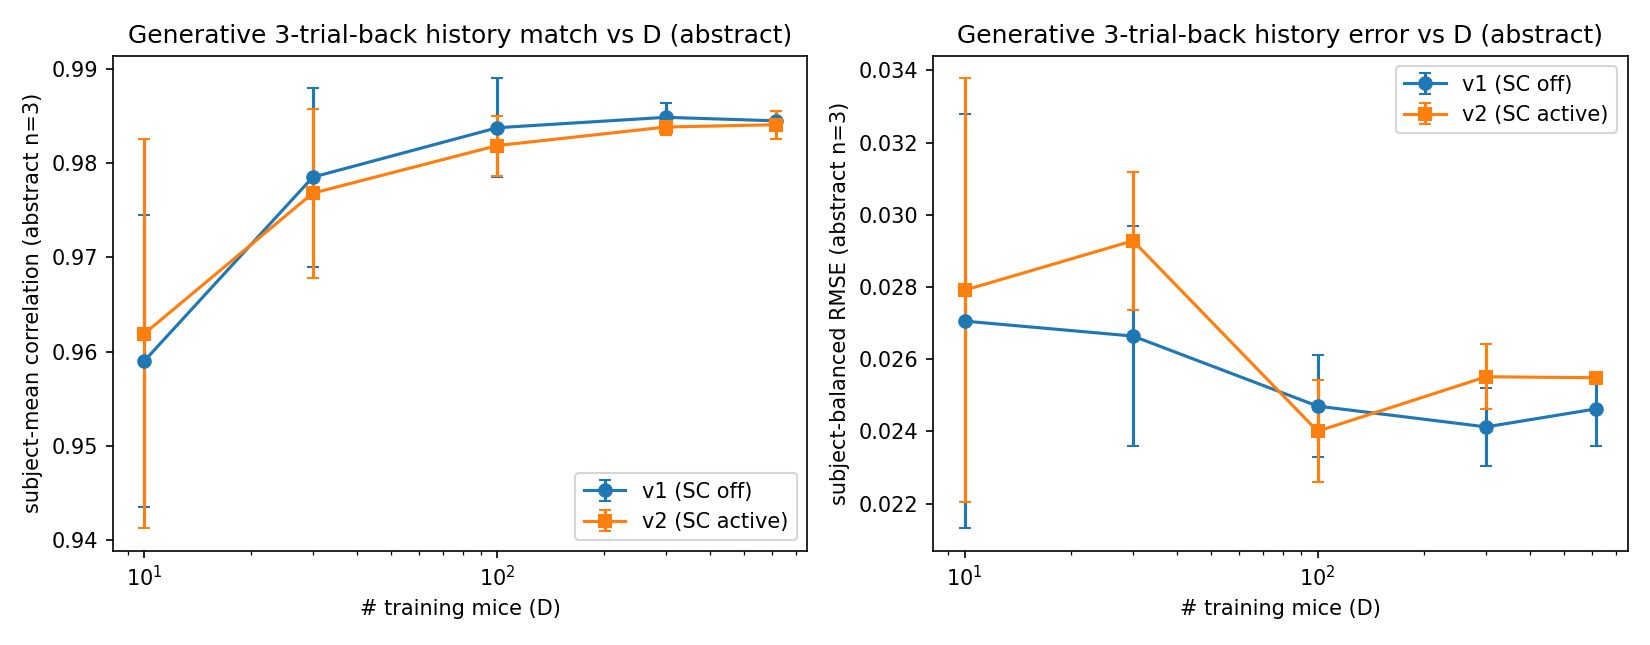
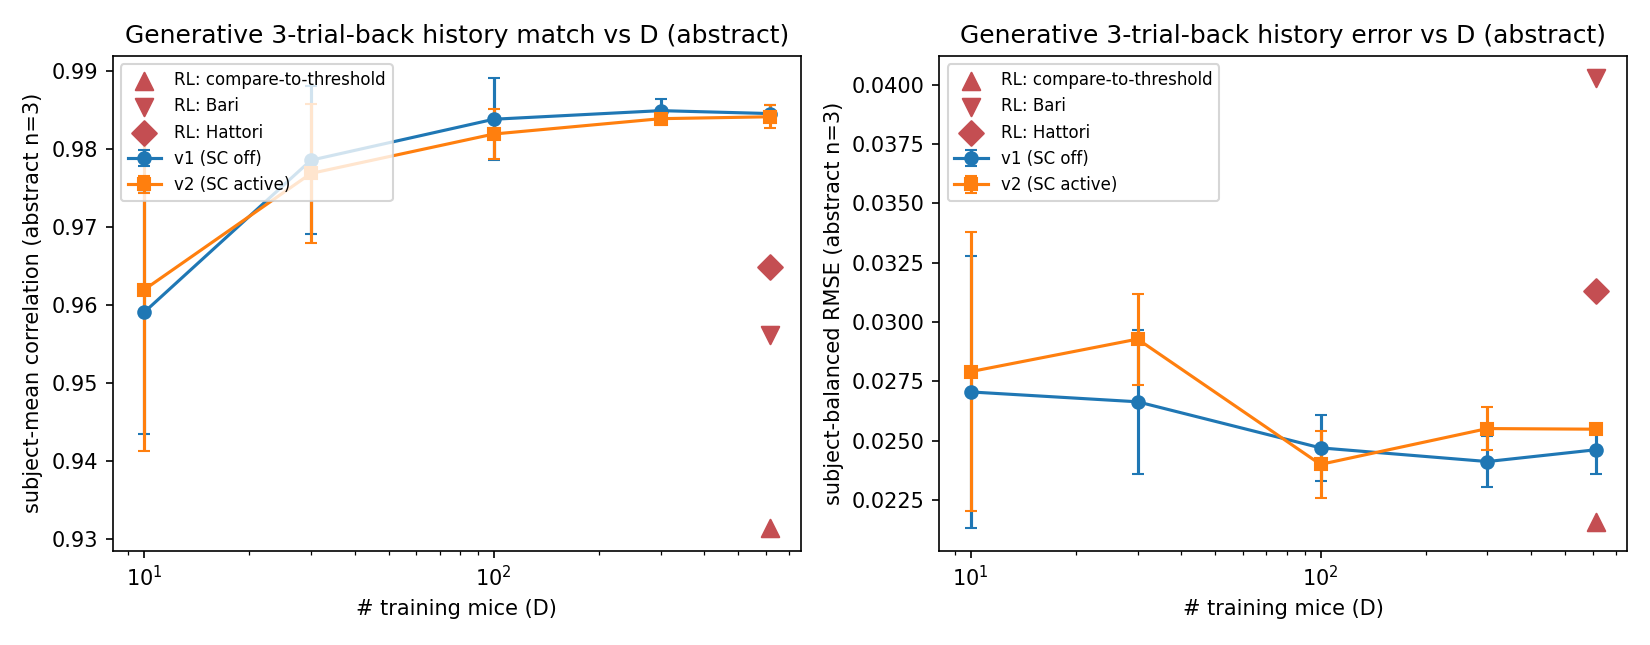
analysis(01): r9 -- add the RL generative baselines from study 05
Study 05's r4 crossed the same three per-mouse RL baselines (compare-to-
threshold, Bari, Hattori -- r1's fits) against the disRNN generatively. r9 is
the natural place for the GRU-vs-RL half of that comparison, since it already
runs the identical task-construction code path -- so add it here too rather
than let the RL rollout only ever be compared against one of the two models.

Reads study 05's committed rl_rollout_summaries/ (cross-study reference, same
direction r1/r4 already read study 01's generative_match.json the other way).
Single reference point per RL model at D=614 (per-subject fit over all 614
mice, not a D-sweep) on both figures, plus three new result tables (d)-(f)
mirroring this report's existing switch/abstract/detailed structure.

Same nuanced finding as r4: no RL model is uniformly more mouse-like than the
GRU, and the internal RL ranking flips across metrics -- Hattori edges out both
GRU variants on the switch curve (0.9884 vs 0.980) but trails on history
(0.965 vs 0.984); compare-to-threshold is competitive on switch (0.977) but is
the WORST model in every table on 3-trial-back history (0.931, both encodings
agree) -- below even the GRU's own D=10 point. Bari trails on every metric and
carries ~2x everyone else's switch RMSE despite mid-table correlation.

Flagged explicitly: this report's OWN GRU rollouts predate wrapper #60 (the
off-curriculum task-family fix), while the RL rollouts run after it -- an
[…]

diff --git a/studies/01-gru-scaling-law/analysis/generative_match.py b/studies/01-gru-scaling-law/analysis/generative_match.py
@@ -36,6 +36,16 @@ PROJECT = "AIND-disRNN/mice_data_scaling"
 PREFIXES = ("generative-v1@", "generative-v2@")
 DLAB = {0.016: 10, 0.049: 30, 0.163: 100, 0.489: 300, 1.0: 614}
 
+# RL baselines: rolled out generatively under study 05 (variants/generative-rl-baseline), same
+# task construction as this study's own GRU rollouts (build_curriculum_matched_task). Read
+# cross-study rather than duplicated -- that variant's notes.md has the full methodology/
+# provenance. Single point each at D=614 (per-subject fits over all 614 mice), NOT a D-sweep.
+RL_JSON_DIR = (
+    HERE.parent.parent / "05-disrnn-scaling-law" / "variants" / "generative-rl-baseline"
+    / "rl_rollout_summaries"
+)
+RL_LABELS = {"ctt": "compare-to-threshold", "bari": "Bari", "hattori": "Hattori"}
+
 # (1) switch-triggered: run-length-resolved switch curve (the corr~0.96 headline).
 STAT = "post_switch_by_reward_and_run_length"
 K_CORR = switch_corr(STAT)
@@ -98,9 +108,43 @@ def collect():
     return rows, groups
 
 
+def rl_reference():
+    """RL baselines' generative match at D=614 (study 05's rollout, same task construction).
+
+    quantitative_summary.json per alias has the SAME nested structure the wrapper logs to W&B
+    (see wandb_keys.py) -- just not flattened into dotted keys, since these standalone rollouts
+    were never logged to a W&B run.
+    """
+    out = {}
+    for alias, label in RL_LABELS.items():
+        path = RL_JSON_DIR / f"{alias}_quantitative_summary.json"
+        if not path.exists():
+            continue
+        d = json.loads(path.read_text())
+        sw = d["switch_triggered"]["quantitative_summary"]["subject_mean"][STAT]
+        sw_mse = d["switch_triggered"]["delta_significance_summary"][STAT][
+            "subject_balanced_error_summary"
+        ]["mean_squared_error"]
+        hp, hn = HIST_HEADLINE
+        hist = d["history_dependent"]["quantitative_summary"]["subject_mean"][hp][str(hn)]
+        hist_mse = d["history_dependent"]["delta_significance_summary"][hp][str(hn)][
+            "subject_balanced_error_summary"
+        ]["mean_squared_error"]
+        out[alias] = dict(
+            label=label,
+            D=614,
+            corr=float(sw["correlation"]),
+            rmse=math.sqrt(float(sw_mse)),
+            hist_corr=float(hist["correlation"]),
+            hist_rmse=math.sqrt(float(hist_mse)),
+        )
+    return out
+
+
 def main():
     rows, groups = collect()
     print(f"collected {len(rows)} generative cells")
+    rl = rl_reference()
     # (1) switch-triggered: aggregate over seeds per (variant, D).
     agg = defaultdict(lambda: defaultdict(list))
     for r in rows:
@@ -131,7 +175,7 @@ def main():
                 )
 
     json.dump({"_meta": build_meta("analysis/generative_match.py", groups),
-               **out, "history_dependent": hist_out},
+               **out, "history_dependent": hist_out, "rl_reference": rl},
               open(HERE / "generative_match.json", "w"), indent=2)
 
     # --- figure 1: switch-triggered match vs D (unchanged) ---------------------
@@ -146,8 +190,15 @@ def main():
         lab = "v1 (SC off)" if var == "v1" else "v2 (SC active)"
         axc.errorbar(xs, cm, yerr=cs, fmt=mk, capsize=3, label=lab)
         axr.errorbar(xs, rm, yerr=rs, fmt=mk, capsize=3, label=lab)
+    rl_markers = {"ctt": "^", "bari": "v", "hattori": "D"}
+    for alias, v in rl.items():
+        axc.scatter([v["D"]], [v["corr"]], marker=rl_markers.get(alias, "x"), s=70,
+                    color="#c44e52", zorder=5, label=f"RL: {v['label']}")
+        axr.scatter([v["D"]], [v["rmse"]], marker=rl_markers.get(alias, "x"), s=70,
+                    color="#c44e52", zorder=5, label=f"RL: {v['label']}")
     for ax in (axc, axr):
-        ax.set_xscale("log"); ax.set_xlabel("# training mice (D)"); ax.legend()
+        # upper-left is the corner every series (GRU v1/v2, RL) leaves clear at every D.
+        ax.set_xscale("log"); ax.set_xlabel("# training mice (D)"); ax.legend(loc="upper left", fontsize=8)
     axc.set_ylabel("subject-mean correlation (model vs animal)")
     axc.set_title("Generative switch-curve match vs D")
     axr.set_ylabel("subject-balanced RMSE")
@@ -168,8 +219,13 @@ def main():
         lab = "v1 (SC off)" if var == "v1" else "v2 (SC active)"
         axc.errorbar(xs, cm, yerr=cs, fmt=mk, capsize=3, label=lab)
         axr.errorbar(xs, rm, yerr=rs, fmt=mk, capsize=3, label=lab)
+    for alias, v in rl.items():
+        axc.scatter([v["D"]], [v["hist_corr"]], marker=rl_markers.get(alias, "x"), s=70,
+                    color="#c44e52", zorder=5, label=f"RL: {v['label']}")
+        axr.scatter([v["D"]], [v["hist_rmse"]], marker=rl_markers.get(alias, "x"), s=70,
+                    color="#c44e52", zorder=5, label=f"RL: {v['label']}")
     for ax in (axc, axr):
-        ax.set_xscale("log"); ax.set_xlabel("# training mice (D)"); ax.legend()
+        ax.set_xscale("log"); ax.set_xlabel("# training mice (D)"); ax.legend(loc="upper left", fontsize=8)
     axc.set_ylabel(f"subject-mean correlation ({hp} n={hn})")
     axc.set_title(f"Generative 3-trial-back history match vs D ({hp})")
     axr.set_ylabel(f"subject-balanced RMSE ({hp} n={hn})")
@@ -192,6 +248,12 @@ def main():
             for cell in sorted(section, key=lambda c: (c[:2], section[c]["D"])):
                 v = section[cell]
                 print(f"{cell:>9} {v['n_seeds']:>2} {v['corr_mean']:>8.4f} {v['rmse_mean']:>8.4f}")
+
+    if rl:
+        print(f"\n=== RL baselines at D=614 (switch corr/rmse, {hp} n={hn} history corr/rmse) ===")
+        for alias, v in rl.items():
+            print(f"{v['label']:>22}  switch {v['corr']:.4f}/{v['rmse']:.4f}   "
+                  f"history {v['hist_corr']:.4f}/{v['hist_rmse']:.4f}")
 
 
 if __name__ == "__main__":

diff --git a/studies/01-gru-scaling-law/analysis/reports/r9-generative-behavioral-match.md b/studies/01-gru-scaling-law/analysis/reports/r9-generative-behavioral-match.md
@@ -13,12 +13,15 @@ inputs:
   related_outputs:
     - analysis/fig_generative_match_history.png
     - analysis/generative_match_verdict.md
-reproduce: python studies/data-scaling-law/analysis/generative_match.py
+  rl_reference: ../05-disrnn-scaling-law/variants/generative-rl-baseline/rl_rollout_summaries/{ctt,bari,hattori}_quantitative_summary.json
+reproduce: python studies/01-gru-scaling-law/analysis/generative_match.py
 ---
 
 # Result 9 — generative model-vs-animal behavioral match vs D (2nd-order validation)
 
 Roll each trained GRU out as a generative agent on the curriculum task and compare two model-vs-animal behavioral curves to the real mouse. Headline = subject-mean Pearson correlation; companion = subject-balanced RMSE (√ of MSE over per-subject mean deltas). Both on the **combined** session partition. 30 runs = 5 D × 3 seeds × {v1 SC off, v2 SC active}. Source W&B groups `generative-v{1,2}@20260623-18074*`. Wrapper 916d3b4.
+
+**Added 2026-07-15:** three per-mouse classical RL baselines (compare-to-threshold, Bari, Hattori — the same fits behind study 05's r1 likelihood numbers), rolled out generatively under study 05's [`generative-rl-baseline`](../../../05-disrnn-scaling-law/variants/generative-rl-baseline/notes.md) variant through the identical task-construction code path, and plotted here as single reference points at D=614 (a per-subject fit over all 614 mice, not a D-sweep). See the ⚠ caveat below on wrapper-version asymmetry before reading the absolute RL numbers.
 
 ## Figures
 
@@ -41,7 +44,9 @@ For every (variant, D) cell the correlation and RMSE below are means of the 3-se
 ## Results
 
 <!-- BEGIN result-9 -->
-[regenerated by `analysis/generative_match.py` — do not edit by hand]
+[all numbers below are read verbatim off `analysis/generative_match.py`'s console output /
+`generative_match.json` — this script does not write the tables into the report automatically,
+so update them by hand when re-running produces new numbers]
 
 **(a) Switch-triggered curve — `post_switch_by_reward_and_run_length` (4 bins; subject-mean correlation):**
 
@@ -86,6 +91,34 @@ For every (variant, D) cell the correlation and RMSE below are means of the 3-se
 | v2 614 | 0.9990 | 0.9957 | 0.9872 | 0.0210 | 0.0226 | 0.0237 |
 
 **D=10 → D=614 correlation gain (v1, headline metrics):** 4-bin switch curve +0.021; abstract n=3 (32 bins) +0.026; detailed n=1 (4 bins, WSLS-equivalent) +0.042; **detailed n=3 (64 bins) +0.051**. Fine-grained history metrics surface a ~2× larger D-scaling signal than the coarse 4-bin curve, while still saturating by D≈100.
+
+**(d) RL baselines at D=614 — switch-triggered curve** (per-subject fits from study 05's r1, rolled out through the same task construction; not a D-sweep — one row per model, fit on all 614 mice):
+
+| model | switch corr | switch RMSE |
+|---|---|---|
+| GRU v1 (D=614, for reference) | 0.9789 | 0.0362 |
+| GRU v2 (D=614, for reference) | 0.9802 | 0.0379 |
+| Hattori | **0.9884** | 0.0452 |
+| compare-to-threshold | 0.9770 | 0.0369 |
+| Bari | 0.9425 | 0.0831 |
+
+**(e) RL baselines at D=614 — history-pattern curve, abstract encoding:**
+
+| model | n=1 corr | n=2 corr | n=3 corr | n=1 RMSE | n=2 RMSE | n=3 RMSE |
+|---|---|---|---|---|---|---|
+| Hattori | 1.0000ⁿ | 0.9944 | 0.9648 | 0.0153 | 0.0235 | 0.0313 |
+| compare-to-threshold | 1.0000ⁿ | 0.9939 | **0.9313** | 0.0156 | 0.0237 | 0.0216 |
+| Bari | 1.0000ⁿ | 0.9836 | 0.9561 | 0.0201 | 0.0363 | 0.0403 |
+
+**(f) RL baselines at D=614 — history-pattern curve, detailed encoding:**
+
+| model | n=1 corr | n=2 corr | n=3 corr | n=1 RMSE | n=2 RMSE | n=3 RMSE |
+|---|---|---|---|---|---|---|
+| Hattori | 0.9987 | 0.9937 | 0.9656 | 0.0163 | 0.0241 | 0.0301 |
+| compare-to-threshold | 0.9945 | 0.9924 | **0.9321** | 0.0167 | 0.0247 | 0.0207 |
+| Bari | 0.9991 | 0.9855 | 0.9619 | 0.0208 | 0.0359 | 0.0369 |
+
+**No RL model is uniformly more mouse-like than the GRU, and their internal ranking flips across metrics.** Hattori edges out both GRU variants on the switch curve (0.9884 vs 0.980) but trails on history (n=3: 0.965 vs 0.984). compare-to-threshold is competitive with the GRU on switch (0.977) but is the **worst model in every table above** on 3-trial-back history — abstract and detailed agree (0.9313 / 0.9321), both well below even the GRU's D=10 point (0.959–0.962). Bari trails the GRU on every metric and carries ~2× everyone else's RMSE on the switch curve (0.083) despite a mid-table correlation — its curve *shape* tracks the animal, its absolute *level* does not. Full discussion (finding 4): study 05's [r4](../../../05-disrnn-scaling-law/analysis/reports/r4-generative-behavioral-match.md) (same rollouts, disRNN comparison).
 <!-- END result-9 -->
 
 ## Findings
@@ -117,11 +150,23 @@ What does **not** exist anywhere in the wrapper: no win-stay-lose-shift (`wsls`)
 - **"Switch" in `switch_triggered` is a choice flip, not a block reversal.** Block info is stripped from the snapshot before this analysis (`generative_analysis.py:418-426`). Naming follows the wrapper.
 - **abstract n=1 correlation is degenerate** (2 bins → r=±1). Use abstract-n=1 RMSE for D-scaling at that resolution, or use `detailed n=1` (4 bins) for an informative Pearson r.
 - **Subject-mean aggregation discards within-subject variance.** Pooled / session_mean leaves are available in the JSON if a different aggregation is desired.
+- ⚠ **The RL reference rows (d)-(f) run on a NEWER wrapper than this report's own GRU rollouts.**
+  This report's GRU rollouts predate wrapper
+  [#60](https://github.com/AllenNeuralDynamics/aind-disrnn-wrapper/pull/60): off-curriculum
+  sessions were silently simulated as a default *uncoupled-baiting* task regardless of the family
+  the mouse actually ran (~17% of sessions in the D=10 cohort; the affected fraction at other D is
+  untested here). The RL rollouts added below run **after** #60 and do not carry this bug. That
+  makes the GRU-vs-RL comparison in (d)-(f) asymmetric — an unknown amount of the GRU's numbers
+  reflect wrong-task rollouts that the RL numbers don't. It does **not** affect the RL-vs-disRNN
+  comparison in study 05's r4, which runs both models on the same post-#60 code. Re-running this
+  report's own GRU rollouts on the fixed wrapper is tracked (see r4) but not yet done.
 
 ## Related
 
 - [[r1-heldout-scaling-curve]] — 1st-order (next-trial LL) D-scaling that this 2nd-order check corroborates.
 - [[r7-nxd-joint-scaling-grid]] — `nxd_scaling_verdict.md:53` and `nxd_scaling.py:406` already cite "generative behavioral-match (corr~0.96+) corroborates the near-ceiling claim from a 2nd metric".
 - `generative_match_verdict.md` — pre-promotion verdict notes (switch-triggered only).
-- `studies/data-scaling-law/FUTURE_DIRECTIONS.md` §5 — original motivation for this 2nd-order check, and the stage-matching caveat above.
-- `studies/data-scaling-law/launch_generative.py` — launcher that produced the `generative-v{1,2}@*` W&B groups.
+- `studies/01-gru-scaling-law/FUTURE_DIRECTIONS.md` §5 — original motivation for this 2nd-order check, and the stage-matching caveat above.
+- `studies/01-gru-scaling-law/launch_generative.py` — launcher that produced the `generative-v{1,2}@*` W&B groups.
+- [study 05 r4](../../../05-disrnn-scaling-law/analysis/reports/r4-generative-behavioral-match.md) — the disRNN counterpart of this report; same RL baselines, same rollout code path, disRNN-vs-GRU-vs-RL comparison at D=614.
+- [`05-disrnn-scaling-law/variants/generative-rl-baseline`](../../../05-disrnn-scaling-law/variants/generative-rl-baseline/notes.md) — methodology and provenance for the RL rollouts added in (d)-(f) above.
